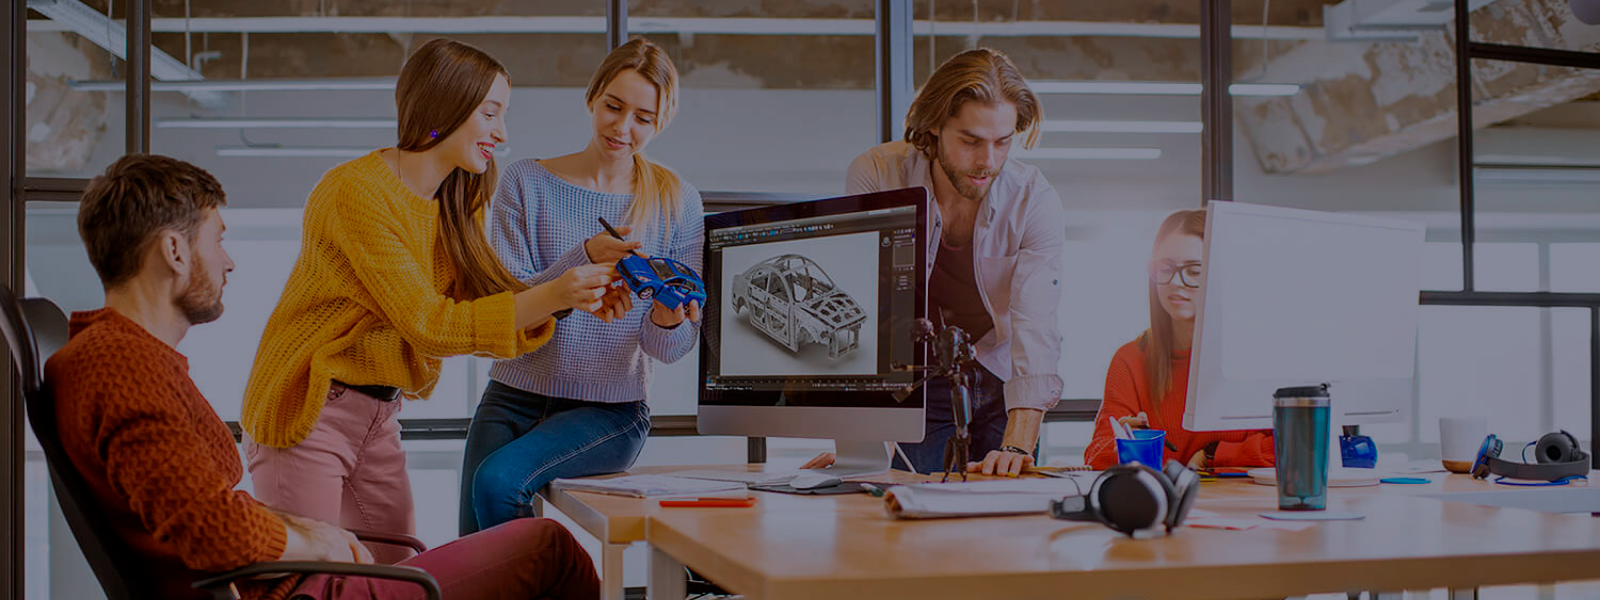
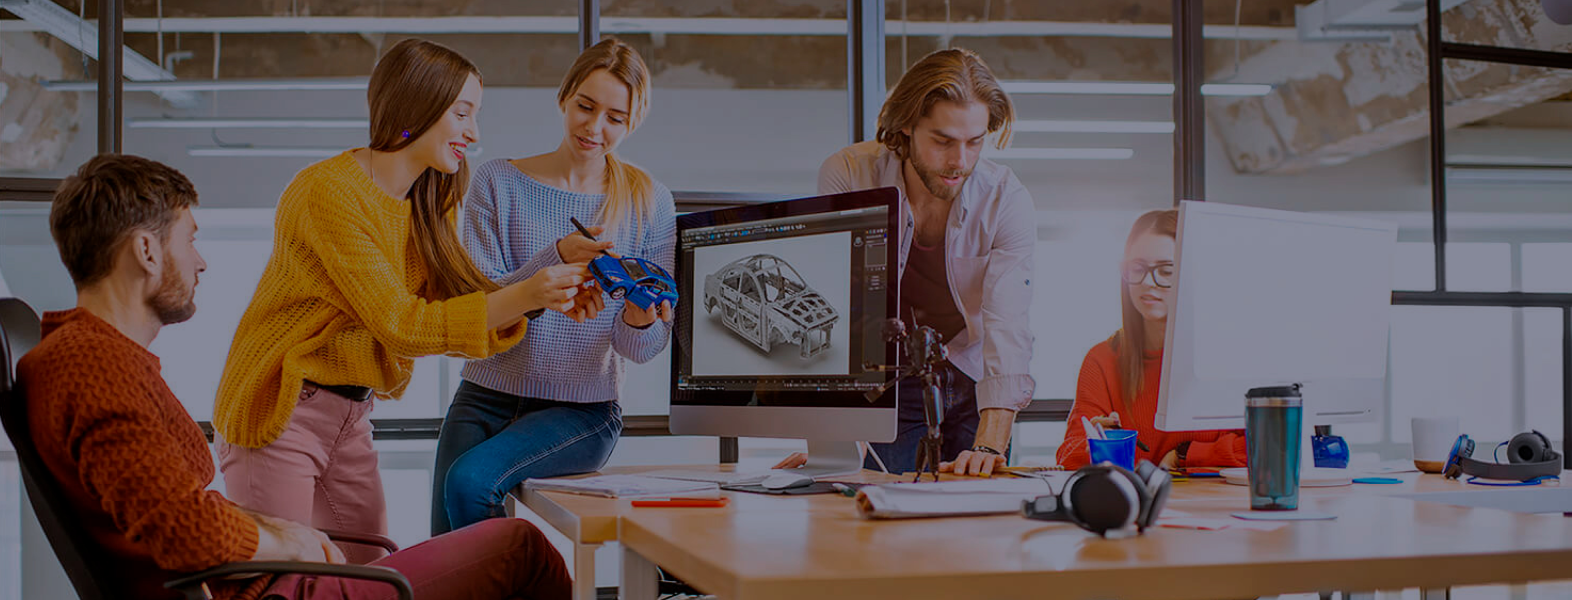
webstudio

diff --git a/css/style.css b/css/style.css
@@ -258,22 +258,18 @@ header-logo {
 }
 
 .hero-title {
-  width: 696px;
-  margin-left: auto;
+width: 696px;
+font-family: "Roboto", sans-serif;
+    color: #ffffff;
+    margin-left: auto;
   margin-right: auto;
-  color: #ffffff;
-  font-family: "Roboto", sans-serif;
-  font-weight: 696;
-  font-size: 44px;
-  line-height: 136%;
-  letter-spacing: 0.06em;
+  font-weight: 800;
   text-transform: uppercase;
-  position: absolute;
-  padding: 50px 60px;
-  text-align: center;
-  color: #fff;
-  justify-content: center;
+  letter-spacing: 1px;
+  line-height: 1.1;
+  margin-bottom: 28px;
 }
+
 .studio {
   font-family: "Roboto", sans-serif;
   font-weight: 600;
@@ -383,6 +379,8 @@ color: #2196f3;
   padding-right: 15px;
   margin-right: auto;
   margin-left: auto;
+   position: relative;
+  text-align: center;
 }
 
 .header-container {
@@ -416,7 +414,6 @@ color: #2196f3;
 .hero-button {
   background-color: #2196f3;
   color: #ffffff;
-  display: flex;
   width: 200px;
   margin-right: auto;
   margin-left: auto;
@@ -427,8 +424,7 @@ color: #2196f3;
   display: block;
   padding: 14px 28px;
   border-radius: 4px;
-position:absolute;
-
+  border: none;
 }
 
 .about-list {
@@ -458,12 +454,16 @@ position:absolute;
 }
 
 .hero {
-  background-image: url("./images/people.png");
-  padding-top: 50px;
-  padding-bottom: 50px;
-  align-items: center;
+  background-image: url("../images/people.png");
   background-position: center;
-background-size: cover;
+  background-size: cover;
+  background-repeat: no-repeat;
+  width: 1600px;
+ min-height: 600px;
+  display: flex;
+  align-items: center;
+  justify-content: center;
+  position: relative;
 }
 
 .register-footer {
@@ -473,4 +473,11 @@ background-size: cover;
   font-size: 26px;
   letter-spacing: 0.03em;
   color: #2196f3;
+}
+
+.hero::before {
+  content: "";
+  position: absolute;
+  inset: 0;
+  background-color: rgba(47, 48, 58, 0.6);
 }

diff --git a/index.html b/index.html
@@ -52,12 +52,11 @@
       </div>
     </header>
     <section class="hero">
-      <div class="container">
-        <h1 class="hero-title">Ефективні рішення для вашого бізнесу</h1>
-        <button class="hero-button">Замовити послугу</button>
-        <img src="./images/people.png" alt="background-people">
-      </div>
-    </section>
+  <div class="container">
+    <h1 class="hero-title">ЕФЕКТИВНІ РІШЕННЯ ДЛЯ ВАШОГО БІЗНЕСУ</h1>
+    <button class="hero-button">Замовити послугу</button>
+  </div>
+</section>
     <main>
       <section class="about">
         <div class="container">
